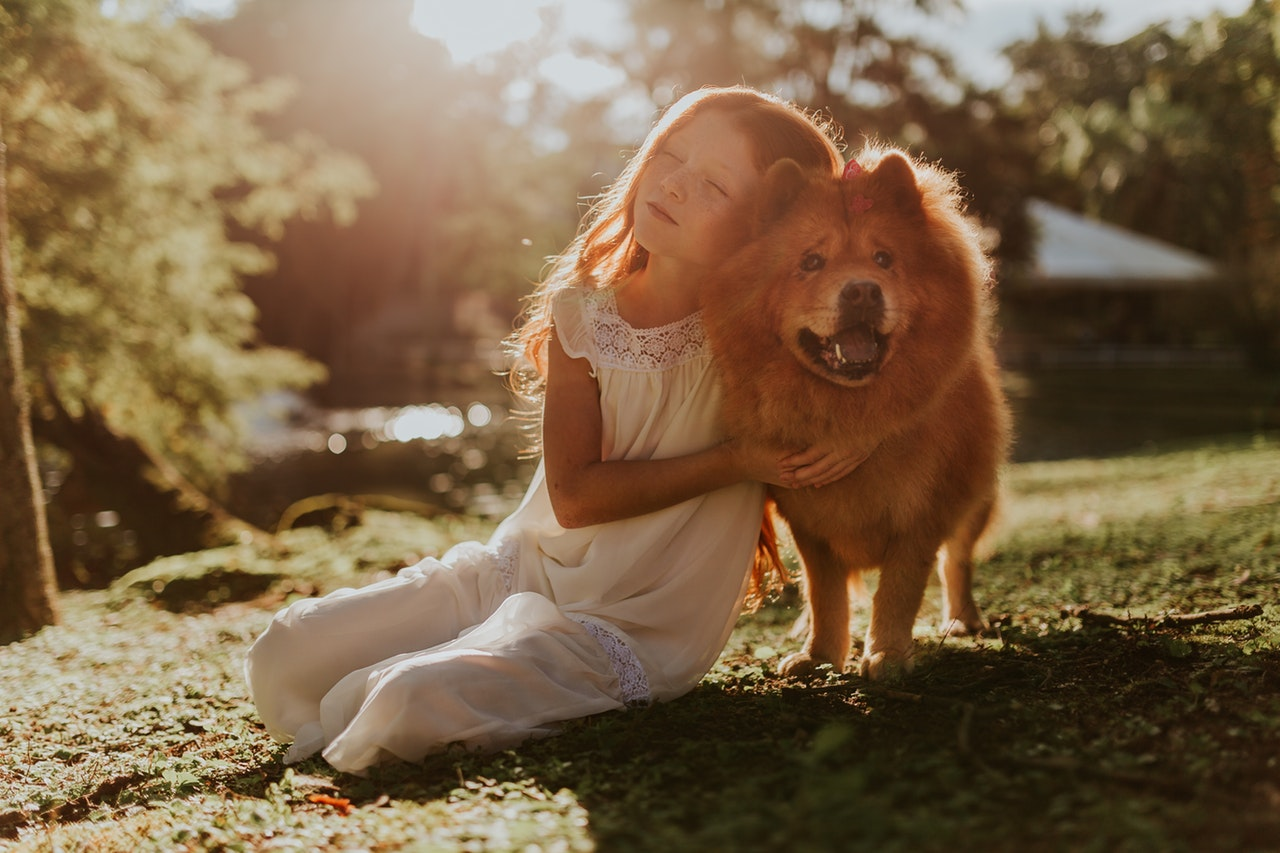
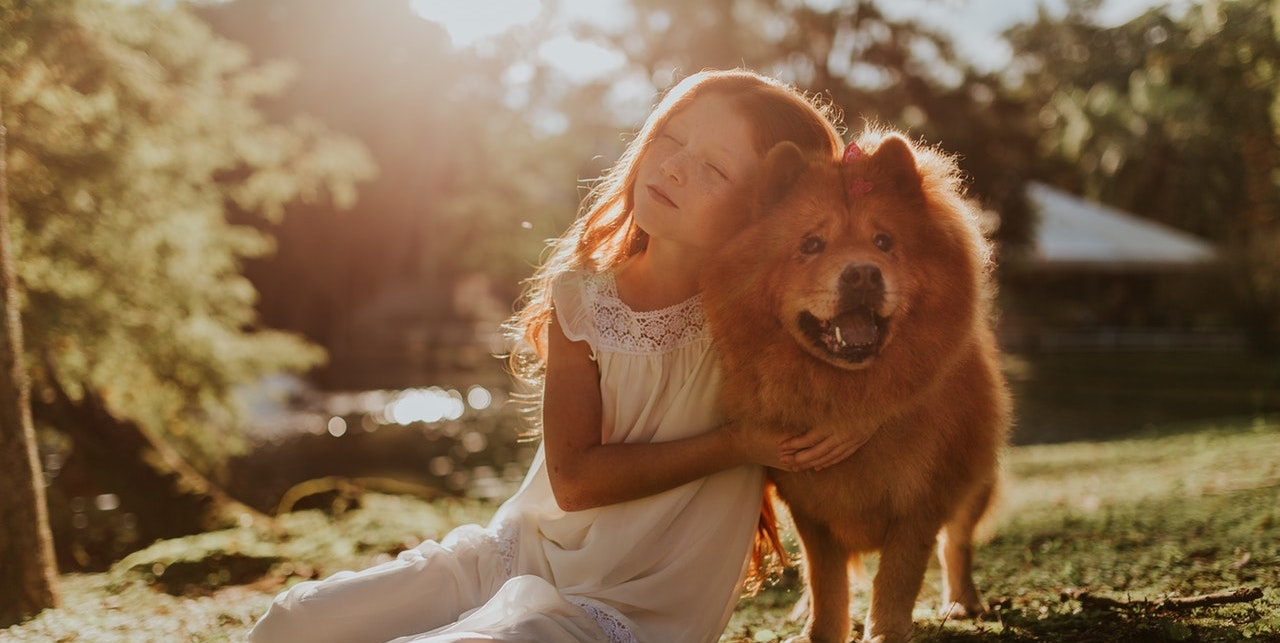
Fixed z-indexes and added title.

diff --git a/app/assets/stylesheets/search.scss b/app/assets/stylesheets/search.scss
@@ -1,20 +1,25 @@
-/*TITLE IMAGE*/
+/*TITLE IMAGE AND TEXT*/
 
 .title-image {
-  z-index: -1;
-  position: fixed;
+  position: absolute;
   top: 0;
   left: 0;
 }
 
+h1.title {
+  position: absolute;
+  color: white;
+  font-size: 7rem;
+  margin: 30% 30% 0%;
+}
 
 /*SEARCH PARAMETERS*/
 
 .search-parameters {
   position: sticky;
   top: 9%;
-  z-index: 1;
   background-color: cyan;
+  margin-top: 40%;
 
   .dropdown {
     display: inline-grid;
@@ -27,12 +32,14 @@
       max-height: 200px;
       overflow-x: hidden;
       white-space: nowrap;
-      min-width: 100%
+      min-width: 100%;
     }
   }
-  /*.search {
-    margin-left: 2.5%;
-  }*/
+}
+
+.btn.btn-light {
+  background-color: cyan;
+  border-color: black;
 }
 
 
@@ -51,10 +58,9 @@
     -webkit-box-shadow: 0 4px 6px rgba(0, 0, 0, .3);
     -moz-box-shadow: 0 4px 6px rgba(0,0,0,.3);
     box-shadow: 0 4px 6px rgba(0,0,0,.3);
-    z-index: 0;
-    position: relative;
     overflow: hidden;
     min-width: 280px;
+}
 
     img {
       object-fit: cover;
@@ -75,4 +81,3 @@
     }
   }
 
-}

diff --git a/app/assets/stylesheets/result.scss b/app/assets/stylesheets/result.scss
@@ -14,8 +14,7 @@
     -webkit-box-shadow: 0 4px 6px rgba(0, 0, 0, .3);
     -moz-box-shadow: 0 4px 6px rgba(0,0,0,.3);
     box-shadow: 0 4px 6px rgba(0,0,0,.3);
-    z-index: 0;
-    position: relative;
+    z-index: -2;
     overflow: hidden;
     min-width: 280px;
 

diff --git a/app/assets/stylesheets/application.scss b/app/assets/stylesheets/application.scss
@@ -37,8 +37,3 @@ nav {
   top: 1.5rem;
   color: #d39e00;
 }
-
-
-.search-title {
-  color: grey;
-}
